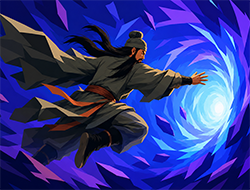
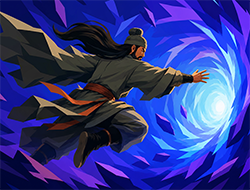
feat: add Audition exhaust script generator
Add Audition, a 1-cost Exhaust skill that puts three distinct combat-generatable Script cards into hand (upgraded when the card is upgraded). Also rename One Man One City to 独守空城 in Chinese text, buff Throw Him Out base Block to 5, and update Juggle Multiple Shoots art.

diff --git a/Cards/Audition.cs b/Cards/Audition.cs
@@ -1,0 +1,69 @@
+using System.Collections.Generic;
+using System.Linq;
+using System.Threading.Tasks;
+using MegaCrit.Sts2.Core.Commands;
+using MegaCrit.Sts2.Core.Entities.Cards;
+using MegaCrit.Sts2.Core.Factories;
+using MegaCrit.Sts2.Core.GameActions.Multiplayer;
+using MegaCrit.Sts2.Core.HoverTips;
+using MegaCrit.Sts2.Core.Models;
+using Squ;
+using Squ.Character;
+using STS2RitsuLib.Interop.AutoRegistration;
+using STS2RitsuLib.Scaffolding.Content;
+
+#nullable enable
+
+namespace Squ.Cards;
+
+[RegisterCard(typeof(SunqianCardPool), StableEntryStem = "audition")]
+public sealed class Audition : ModCardTemplate
+{
+	private const int ScriptCardCount = 3;
+
+	public override IEnumerable<CardKeyword> CanonicalKeywords =>
+	[
+		CardKeyword.Exhaust,
+	];
+
+	protected override IEnumerable<IHoverTip> AdditionalHoverTips =>
+	[
+		HoverTipFactory.FromKeyword(SquKeywords.Script),
+	];
+
+	public override CardAssetProfile AssetProfile => new(
+		PortraitPath: "res://images/cards/Audition.png");
+
+	public Audition()
+		: base(1, CardType.Skill, CardRarity.Common, TargetType.Self)
+	{
+	}
+
+	protected override async Task OnPlay(PlayerChoiceContext choiceContext, CardPlay cardPlay)
+	{
+		List<CardModel> scriptCards = BuildDistinctScriptCards(ScriptCardCount);
+		if (IsUpgraded)
+		{
+			foreach (CardModel card in scriptCards)
+			{
+				card.UpgradeInternal();
+				card.FinalizeUpgradeInternal();
+			}
+		}
+
+		foreach (CardModel card in scriptCards)
+		{
+			await CardPileCmd.AddGeneratedCardToCombat(card, PileType.Hand, Owner);
+		}
+	}
+
+	private List<CardModel> BuildDistinctScriptCards(int count) =>
+		CardFactory.GetDistinctForCombat(
+			Owner,
+			Owner.Character.CardPool.GetUnlockedCards(
+				Owner.UnlockState,
+				Owner.RunState.CardMultiplayerConstraint)
+				.Where(card => card.Tags.Contains(SquCardTags.Script)),
+			count,
+			Owner.RunState.Rng.CombatCardGeneration).ToList();
+}

diff --git a/Cards/ThrowHimOut.cs b/Cards/ThrowHimOut.cs
@@ -18,7 +18,7 @@ public sealed class ThrowHimOut : ModCardTemplate
 {
 	protected override IEnumerable<DynamicVar> CanonicalVars =>
 	[
-		new BlockVar(4m, ValueProp.Move),
+		new BlockVar(5m, ValueProp.Move),
 	];
 
 	public override bool GainsBlock => true;